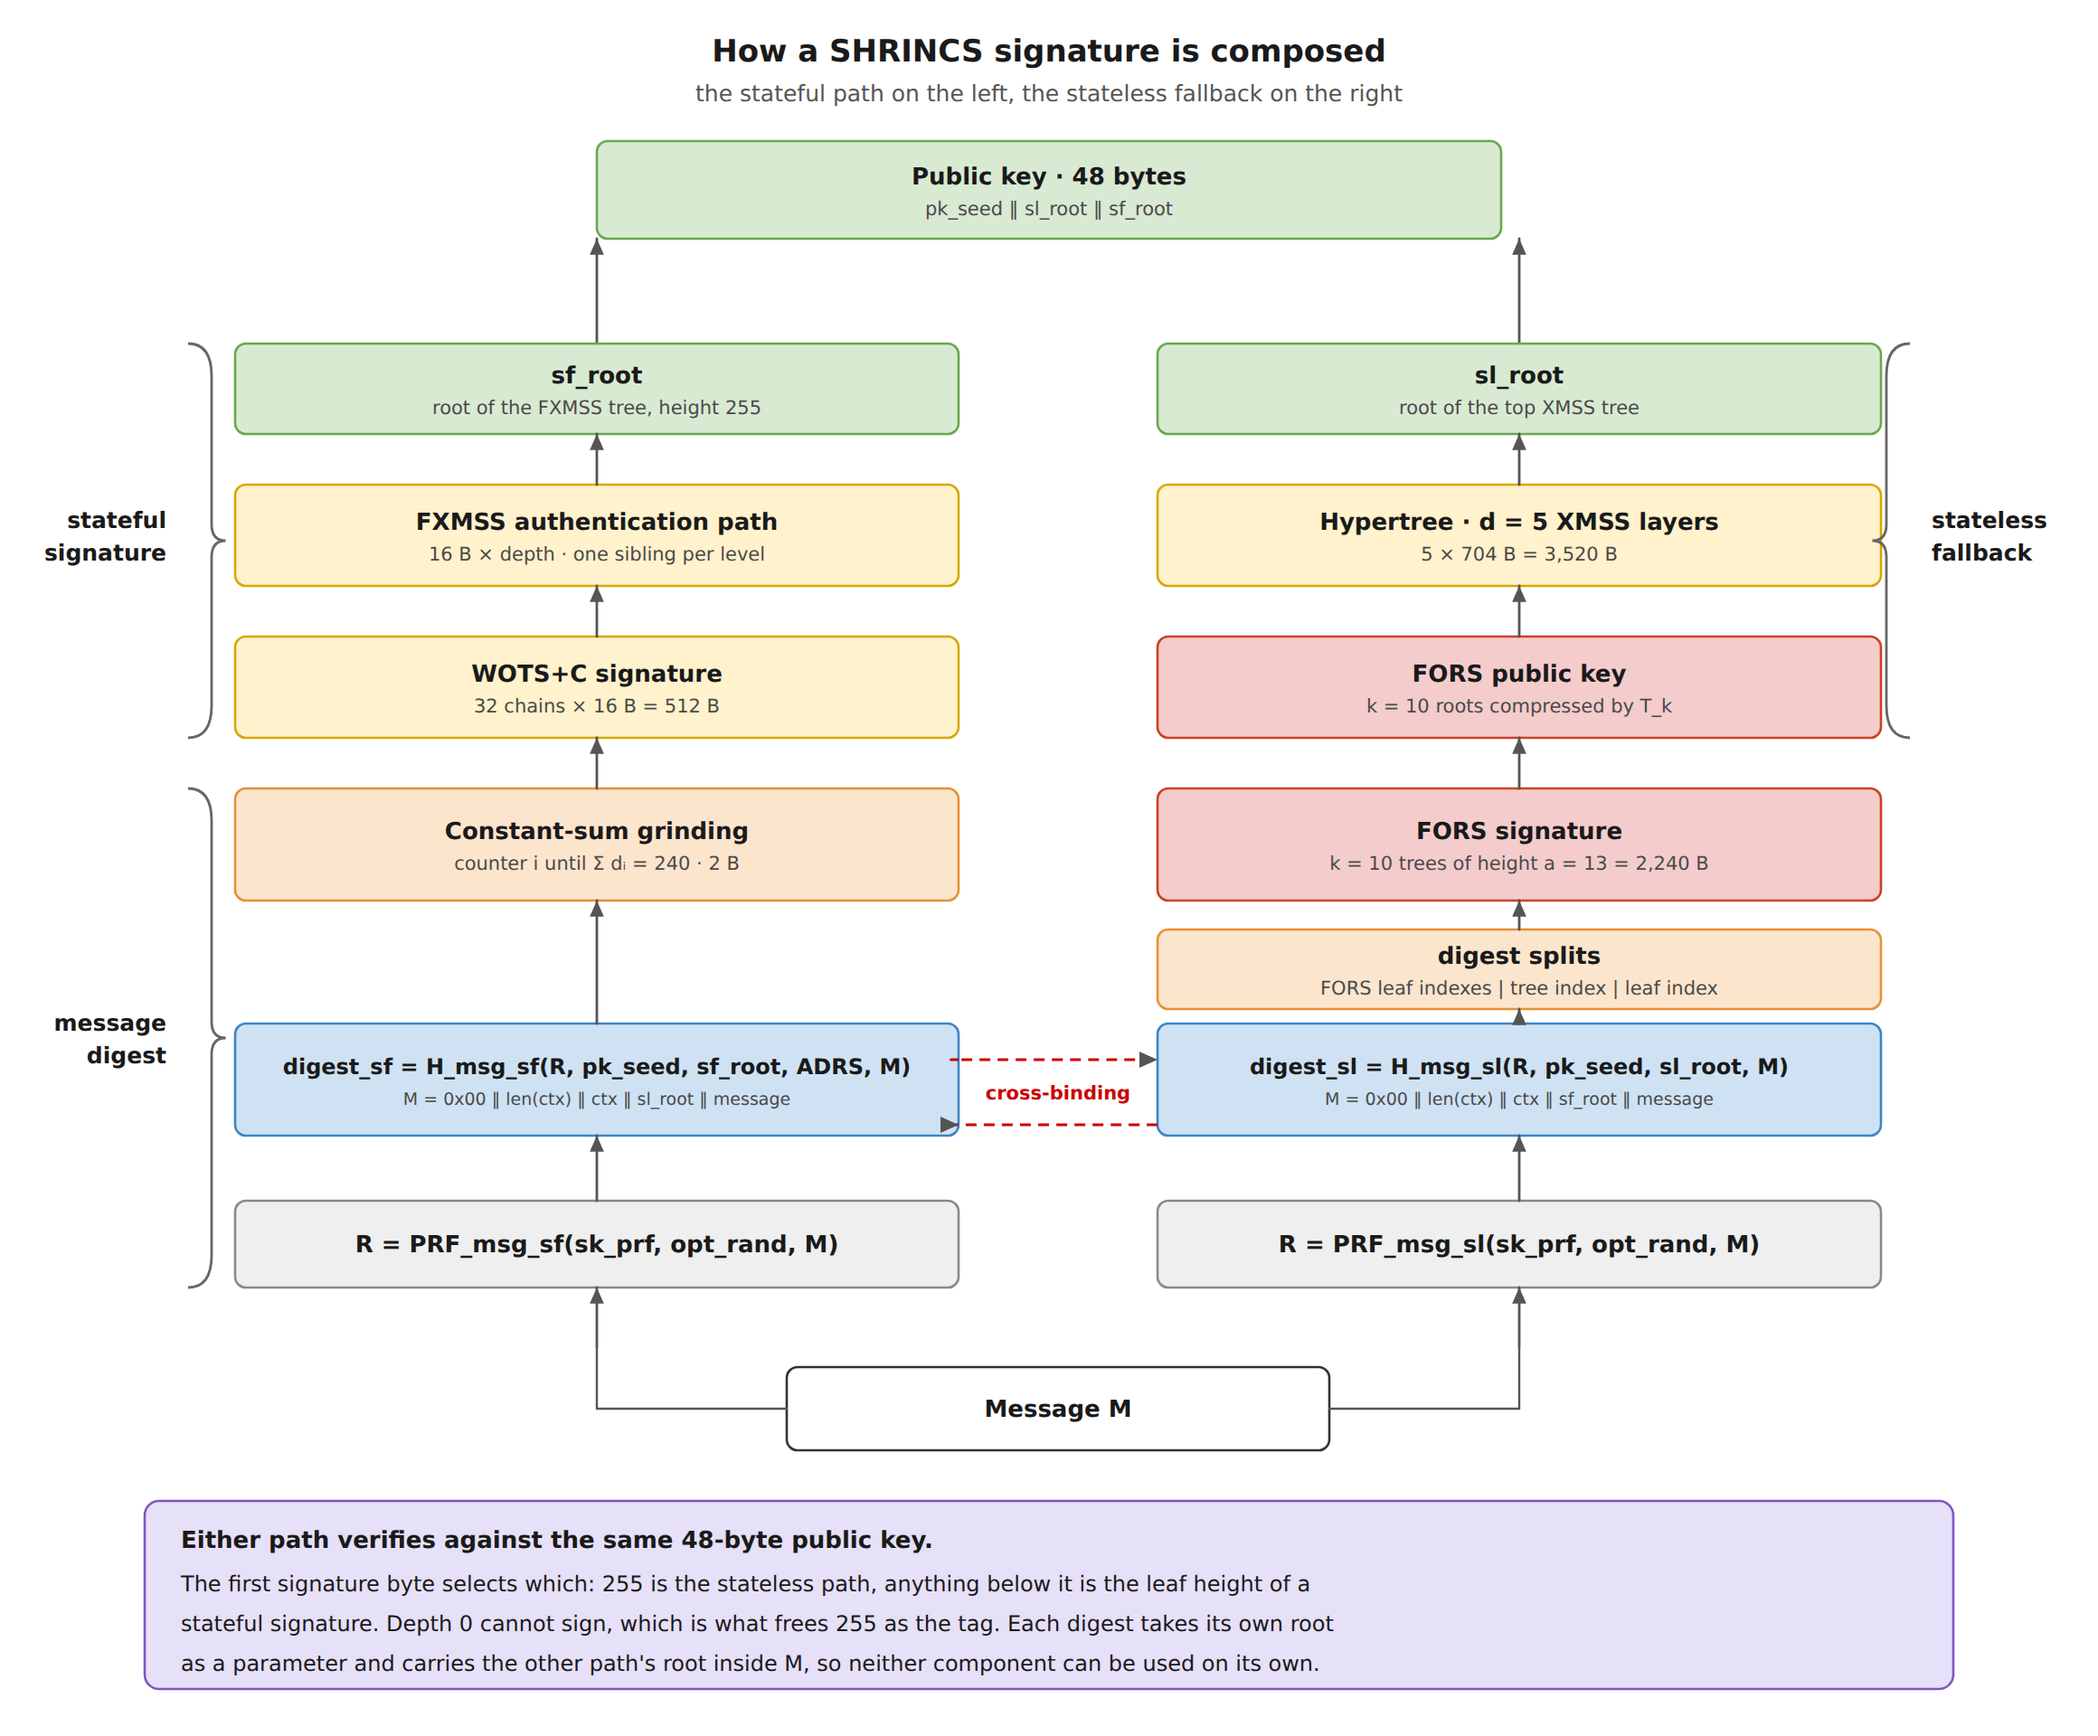
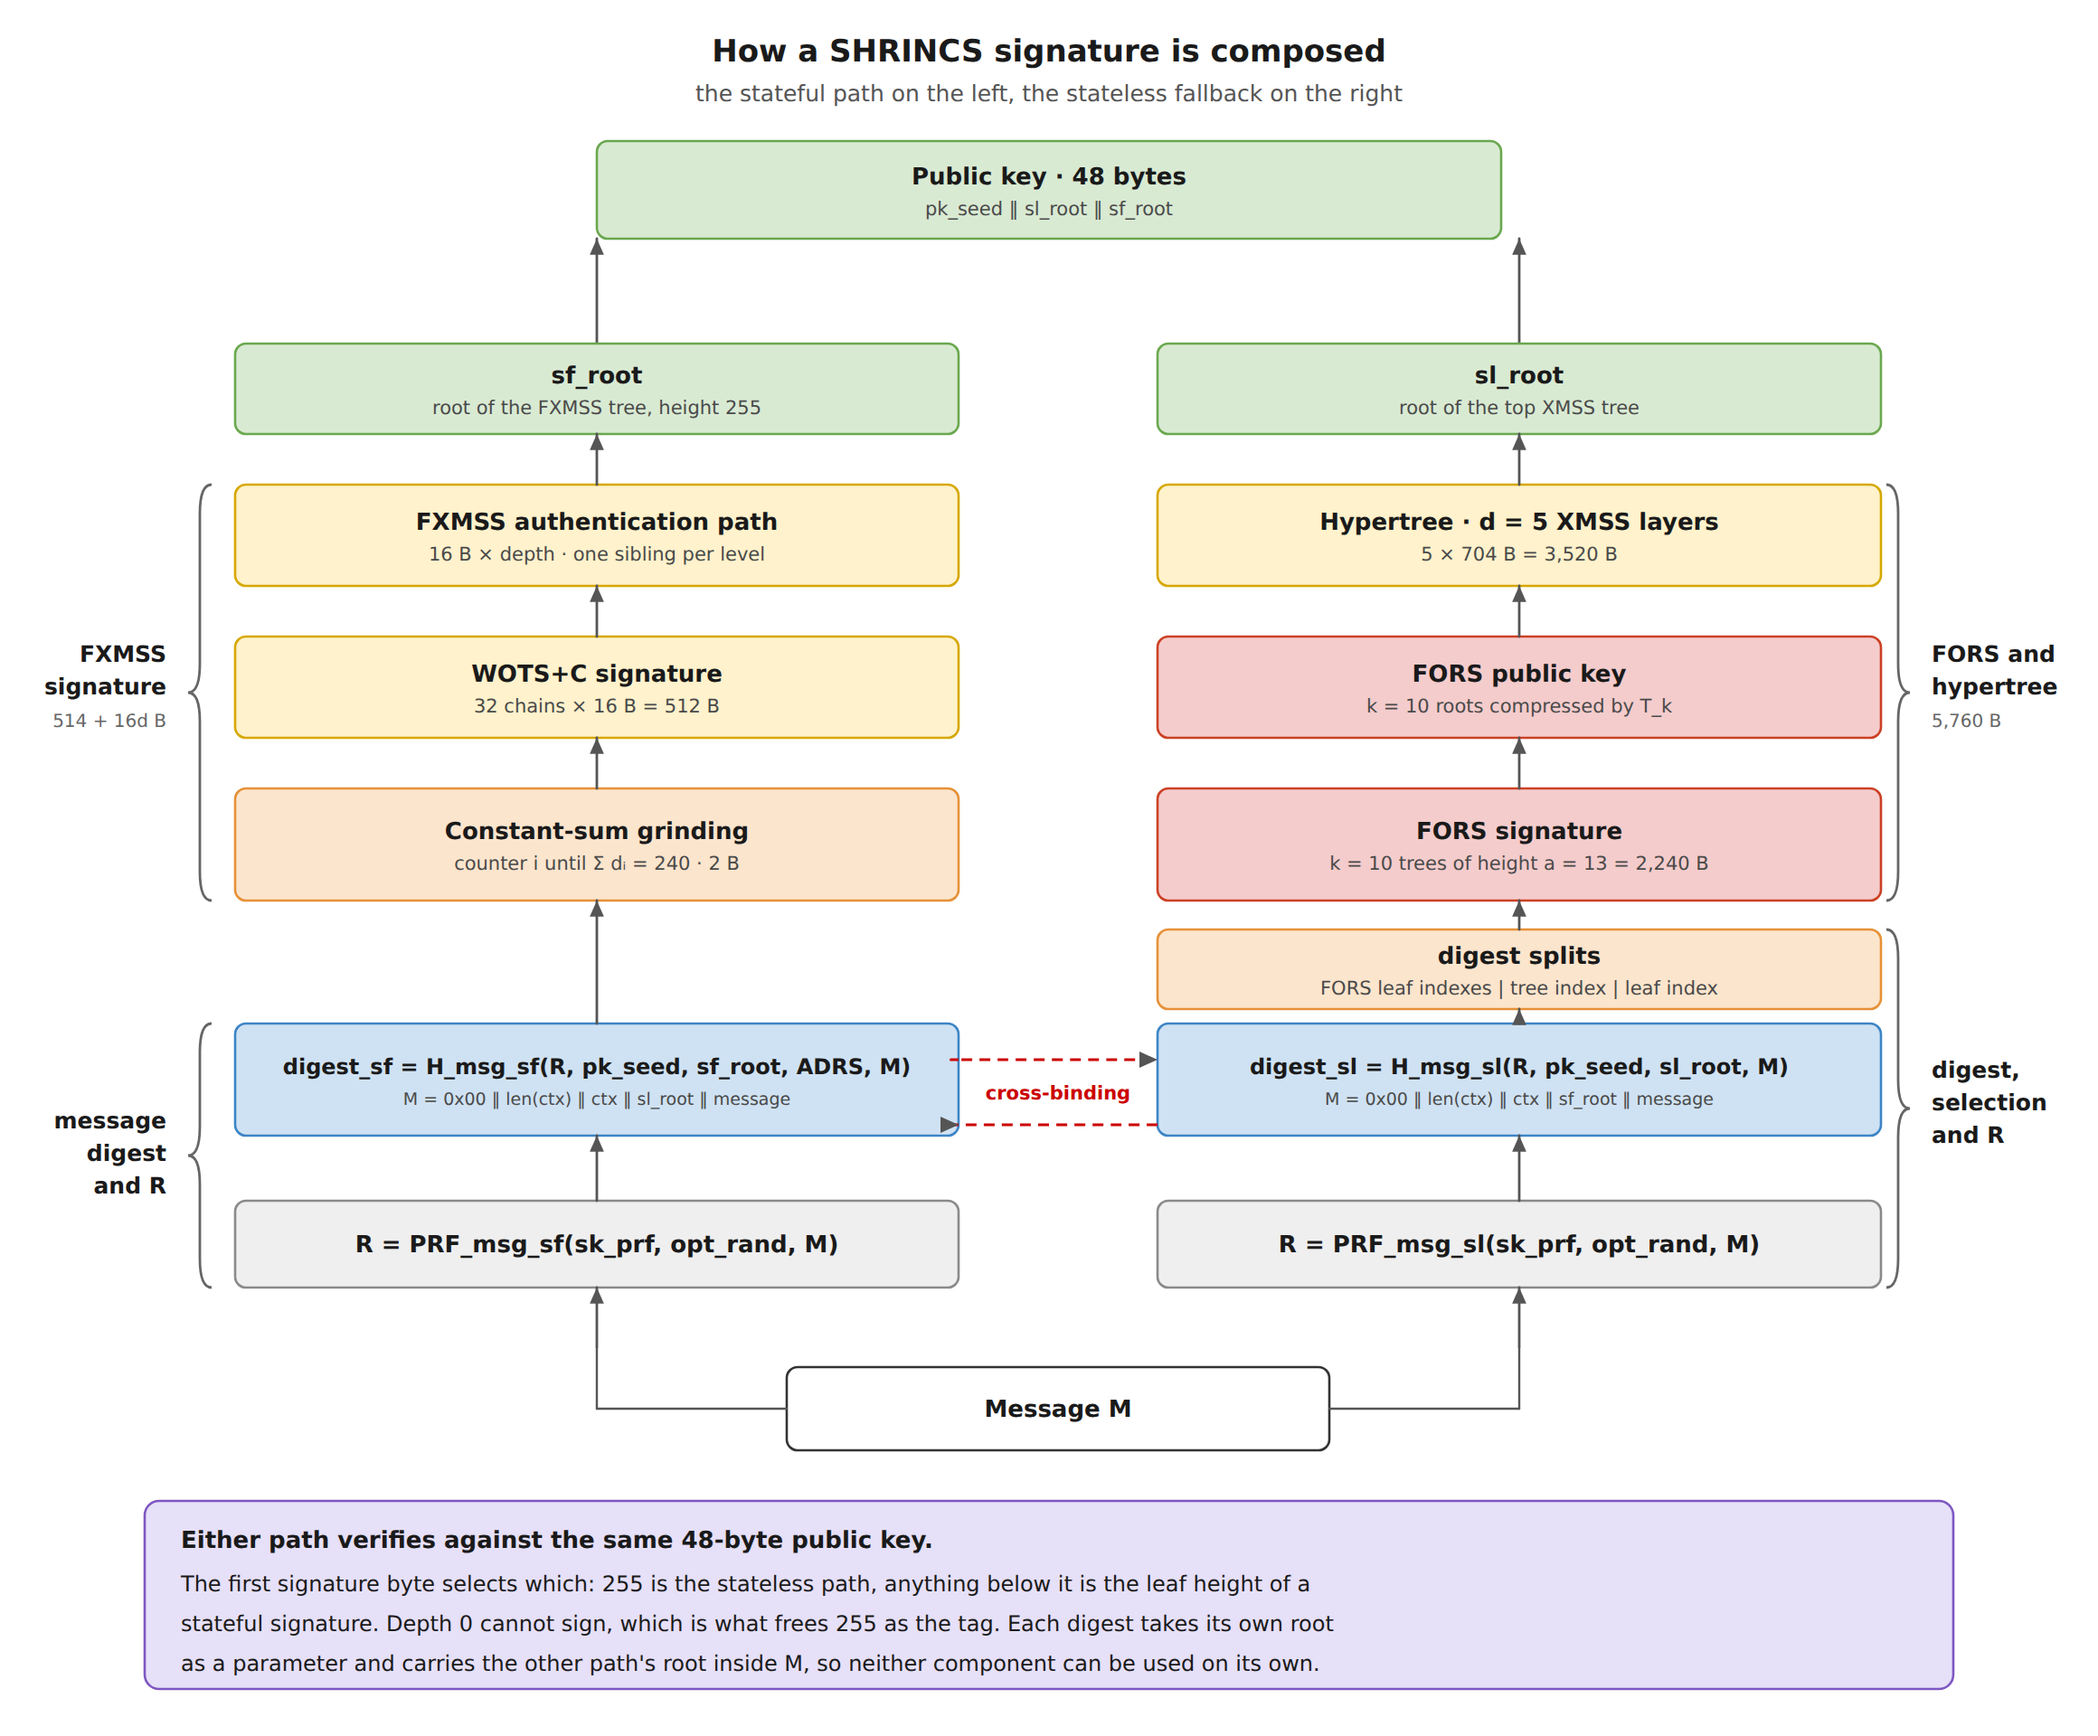
Correct the architecture braces, and define the terms before using them (#27)
The two side braces were wrong in both directions. Geometrically they were
mirrored: the arms pointed out towards the label and the middle nub pointed
into the boxes, where a brace should embrace the content and point its nub
at the label. The kit's brace() is rewritten accordingly.

They also grouped the wrong rows. "Stateful signature" spanned sf_root down
to the WOTS+C signature, which includes a public key component that is not
part of any signature and excludes the two-byte grinding counter that is.
The braces now cover the authentication path, the WOTS+C signature and the
grinding counter, which is exactly the FXMSS signature at 2 + 512 +
16·depth bytes, and the matching FORS and hypertree rows at 5,760 bytes.
The digest and randomiser rows are grouped separately.

The note also assumed FIPS 205 fluency without fixing any of its
vocabulary. A notation section now defines the twenty terms it relies on,
from one-time and few-time signatures through Winternitz chains, checksum
and constant-sum encodings, authentication paths, hypertrees, tweakable
hashes and ADRS, to the stateful, stateless and semi-stateful distinction.

diff --git a/shrincs-construction.md b/shrincs-construction.md
@@ -9,8 +9,35 @@
 > <https://github.com/SHRINCS/shrincs-bip/blob/main/SHRINCS.md>.
 >
 > Status: first draft, marked "Do NOT use in production". Security proofs, test vectors
-> and unit tests are all outstanding. Reading this assumes familiarity with FIPS 205:
-> hypertrees, XMSS, WOTS+, FORS, and ADRS tweakable hashing.
+> and unit tests are all outstanding. The vocabulary is that of FIPS 205, and the section
+> below fixes the terms before they are used.
+
+## Notation and terminology
+
+The note uses the vocabulary of FIPS 205 throughout, together with two constructions the
+standard does not contain. The terms are given here in roughly the order they are needed.
+
+| Term | Meaning |
+|---|---|
+| **One-time signature**, OTS | A scheme whose secret key is secure for a single message. A second signature under the same key reveals enough of the key that a third can be forged. WOTS+, WOTS-TW and WOTS+C are of this kind. |
+| **Few-time signature**, FTS | A scheme that tolerates a small number of signatures under one key, with security degrading as that number grows. FORS is of this kind. |
+| **Winternitz chain** | A sequence of iterated applications of a hash to a chain secret. Publishing the `d`-th iterate encodes the index `d`, and a verifier can advance the chain but not reverse it. |
+| **Winternitz parameter** `w` | The chain length, 16 throughout SHRINCS, so each chain carries `lg w = 4` bits of the digest. |
+| **Checksum chains** | Extra chains encoding the complement of the sum of the message indexes, so that raising any message index forces the checksum index down, which would require inverting a chain. WOTS-TW appends three. |
+| **Constant-sum encoding** | The alternative WOTS+C uses. No checksum is appended; instead only index vectors summing to a fixed constant are admitted, and the signer searches a counter until the digest yields one. Raising one index then requires lowering another, and the number of chain steps becomes fixed. Also called target-sum Winternitz. |
+| **Merkle tree** | A binary tree whose leaves commit to the values being authenticated and whose internal nodes are hashes of their two children, so that the root commits to every leaf. |
+| **Authentication path** | The sibling of each node along the path from a leaf to the root. With the leaf it determines the root, and it is what a signature carries to prove membership. |
+| **XMSS** | A Merkle tree whose leaves are OTS public keys, evaluated under a tweakable hash at every node. Each signature consumes one leaf, which makes the scheme stateful. |
+| **Hypertree** | A tree of XMSS trees, each layer signing the root of the layer below with one of its OTS keys. This reaches a large signature budget without any single tree of impractical height. |
+| **FORS** | A few-time signature of `k` Merkle trees of height `a`. The digest selects one leaf per tree, and the signature reveals those leaves with their authentication paths. |
+| **Tweakable hash** | A hash keyed by a public seed and by a position, so that the function applied at one position is independent of the function applied at any other. |
+| **ADRS** | The address that encodes such a position. Giving every call a distinct ADRS is what makes those hashes independent. |
+| **Domain separation** | Arranging that inputs playing different roles cannot collide, by making the function itself differ with the role. |
+| **Multi-target attack** | A search for a preimage of any one of many published hashes at once. The advantage grows with the number of targets, which is why positions are separated and tree edges directed. |
+| **Stateful scheme** | One whose signer must record which leaves have been used, since reuse breaks security. |
+| **Stateless scheme** | One whose signer keeps no persistent record, at the cost of a larger signature. |
+| **Semi-stateful scheme** | The arrangement SHRINCS introduces: one key pair carrying both, with the stateless component available whenever the state is not. |
+| **Signature budget** | The number of signatures a key pair can produce before its leaves are exhausted. |
 
 ## 1. Relationship to SLH-DSA
 
